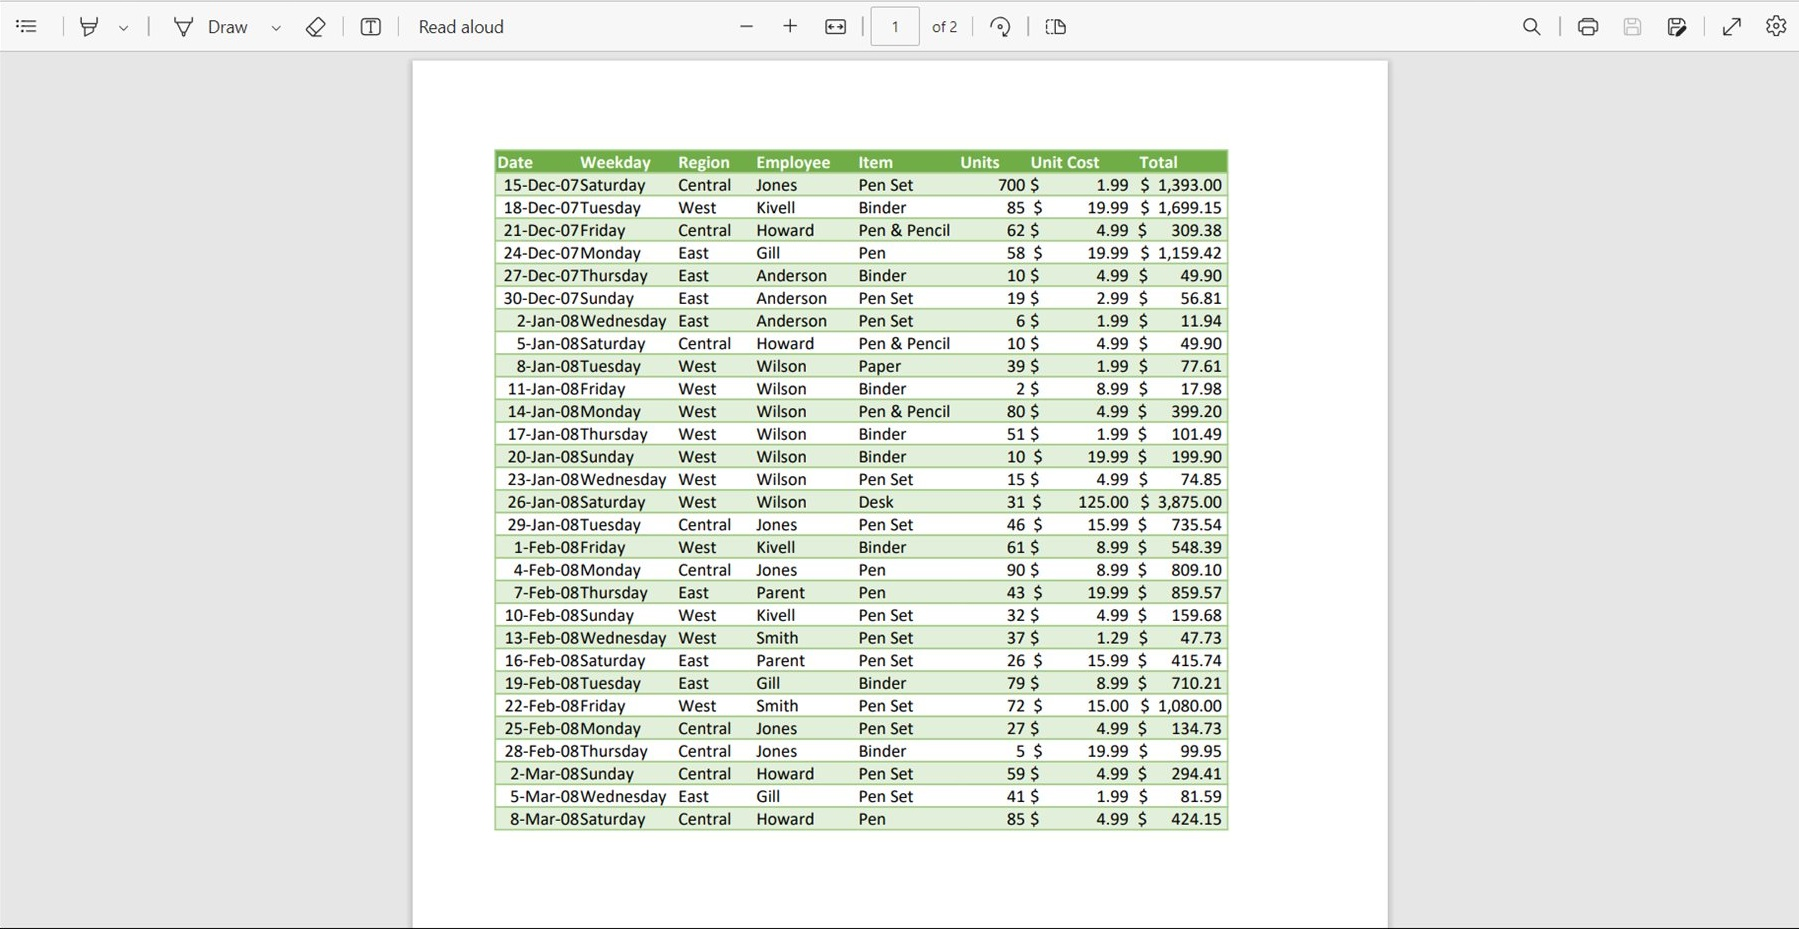
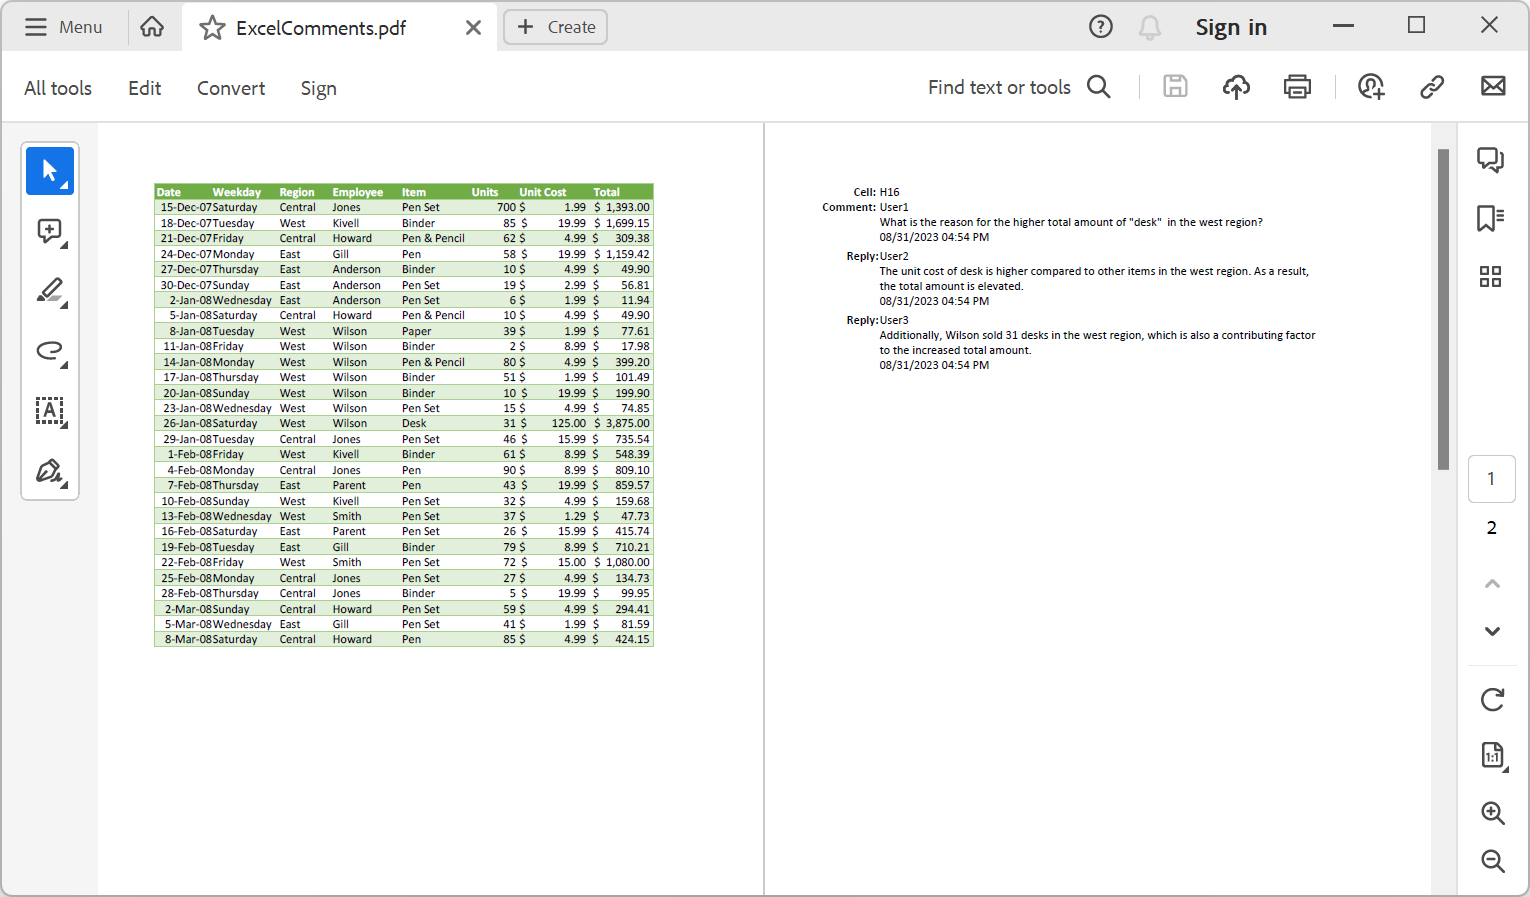
Change the output screenshots

diff --git a/File-Formats/XlsIO/Excel-to-PDF-Conversion.md b/File-Formats/XlsIO/Excel-to-PDF-Conversion.md
@@ -654,8 +654,6 @@ The following screenshot represents the input Excel file with threaded comments
 The following screenshot represents the output pdf file generated by the XlsIO using **PrintSheetEnd** option
 <img src="Excel-to-PDF-Conversion_images/Excel-to-PDF-Conversion_img9.png" alt="output pdf file" width="100%" Height="Auto"/>
 
-<img src="Excel-to-PDF-Conversion_images/Excel-to-PDF-Conversion_img10.png" alt="output pdf file" width="100%" Height="Auto"/>
-
 ## Substitute Font in Excel-to-PDF Conversion
 
 By default, XlsIO substitutes unsupported fonts to **Microsoft Sans Serif** in Excel-to-PDF conversion. However, there might be a requirement for substituting a different font or the same font for the unsupported font during the conversion. XlsIO supports substituting unsupported or missing fonts through the event [SubstituteFont](https://help.syncfusion.com/cr/file-formats/Syncfusion.XlsIO.IApplication.html#Syncfusion_XlsIO_IApplication_SubstituteFont). The event has the below arguments:

diff --git a/File-Formats/XlsIO/Working-with-Drawing-Objects.md b/File-Formats/XlsIO/Working-with-Drawing-Objects.md
@@ -1330,6 +1330,8 @@ Using excelEngine As ExcelEngine = New ExcelEngine
 End Using
 {% endhighlight %}
 {% endtabs %}
+The following screenshot represents the output Excel file of threaded comments generated by the XlsIO 
+<img src="Excel-to-PDF-Conversion_images/Excel-to-PDF-Conversion_img10.png" alt="output Excel file" width="100%" Height="Auto"/>
 
 ## AutoShapes
 
